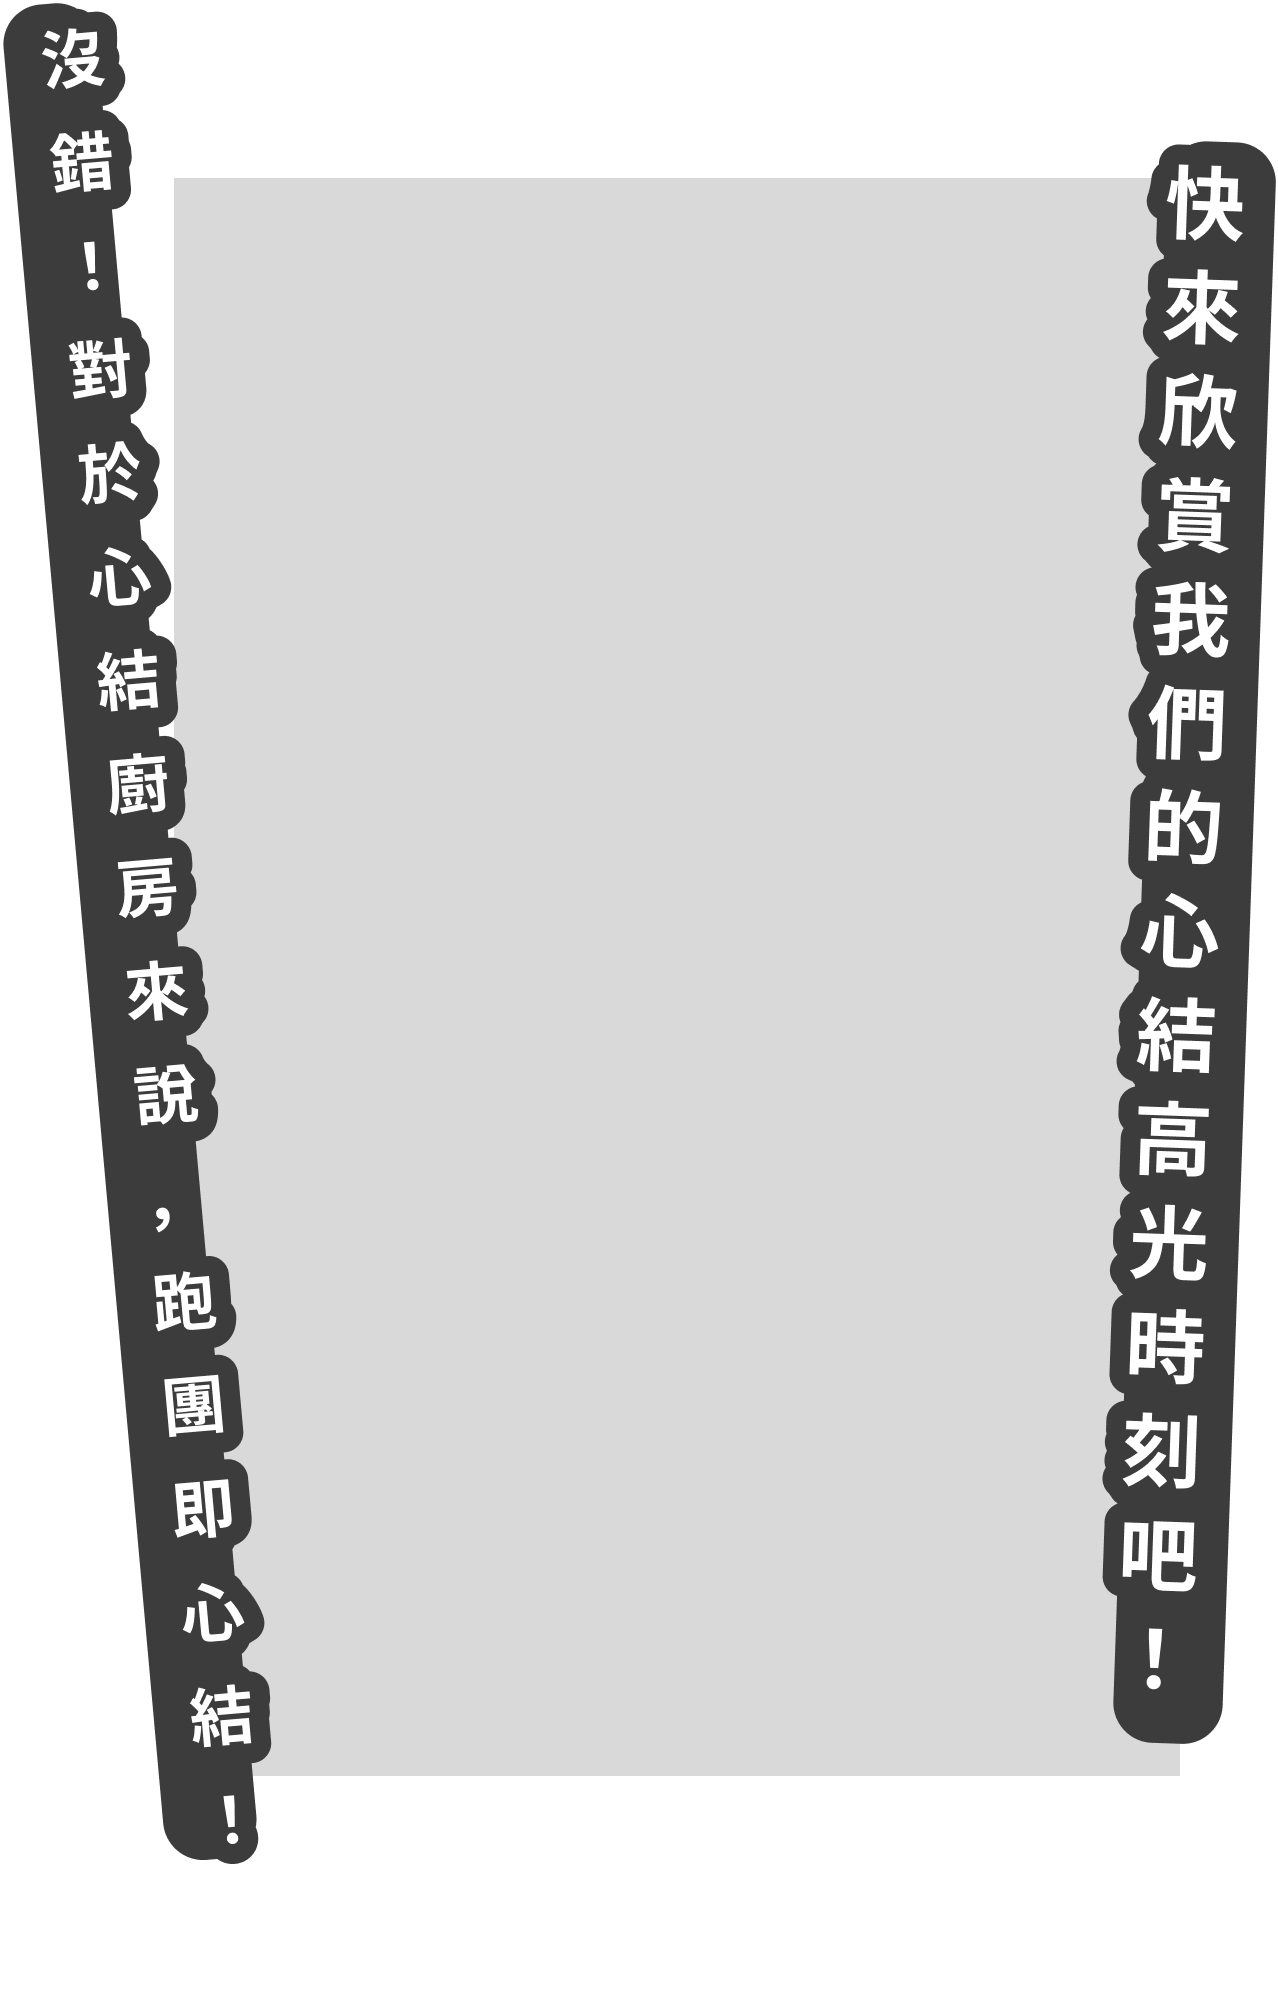
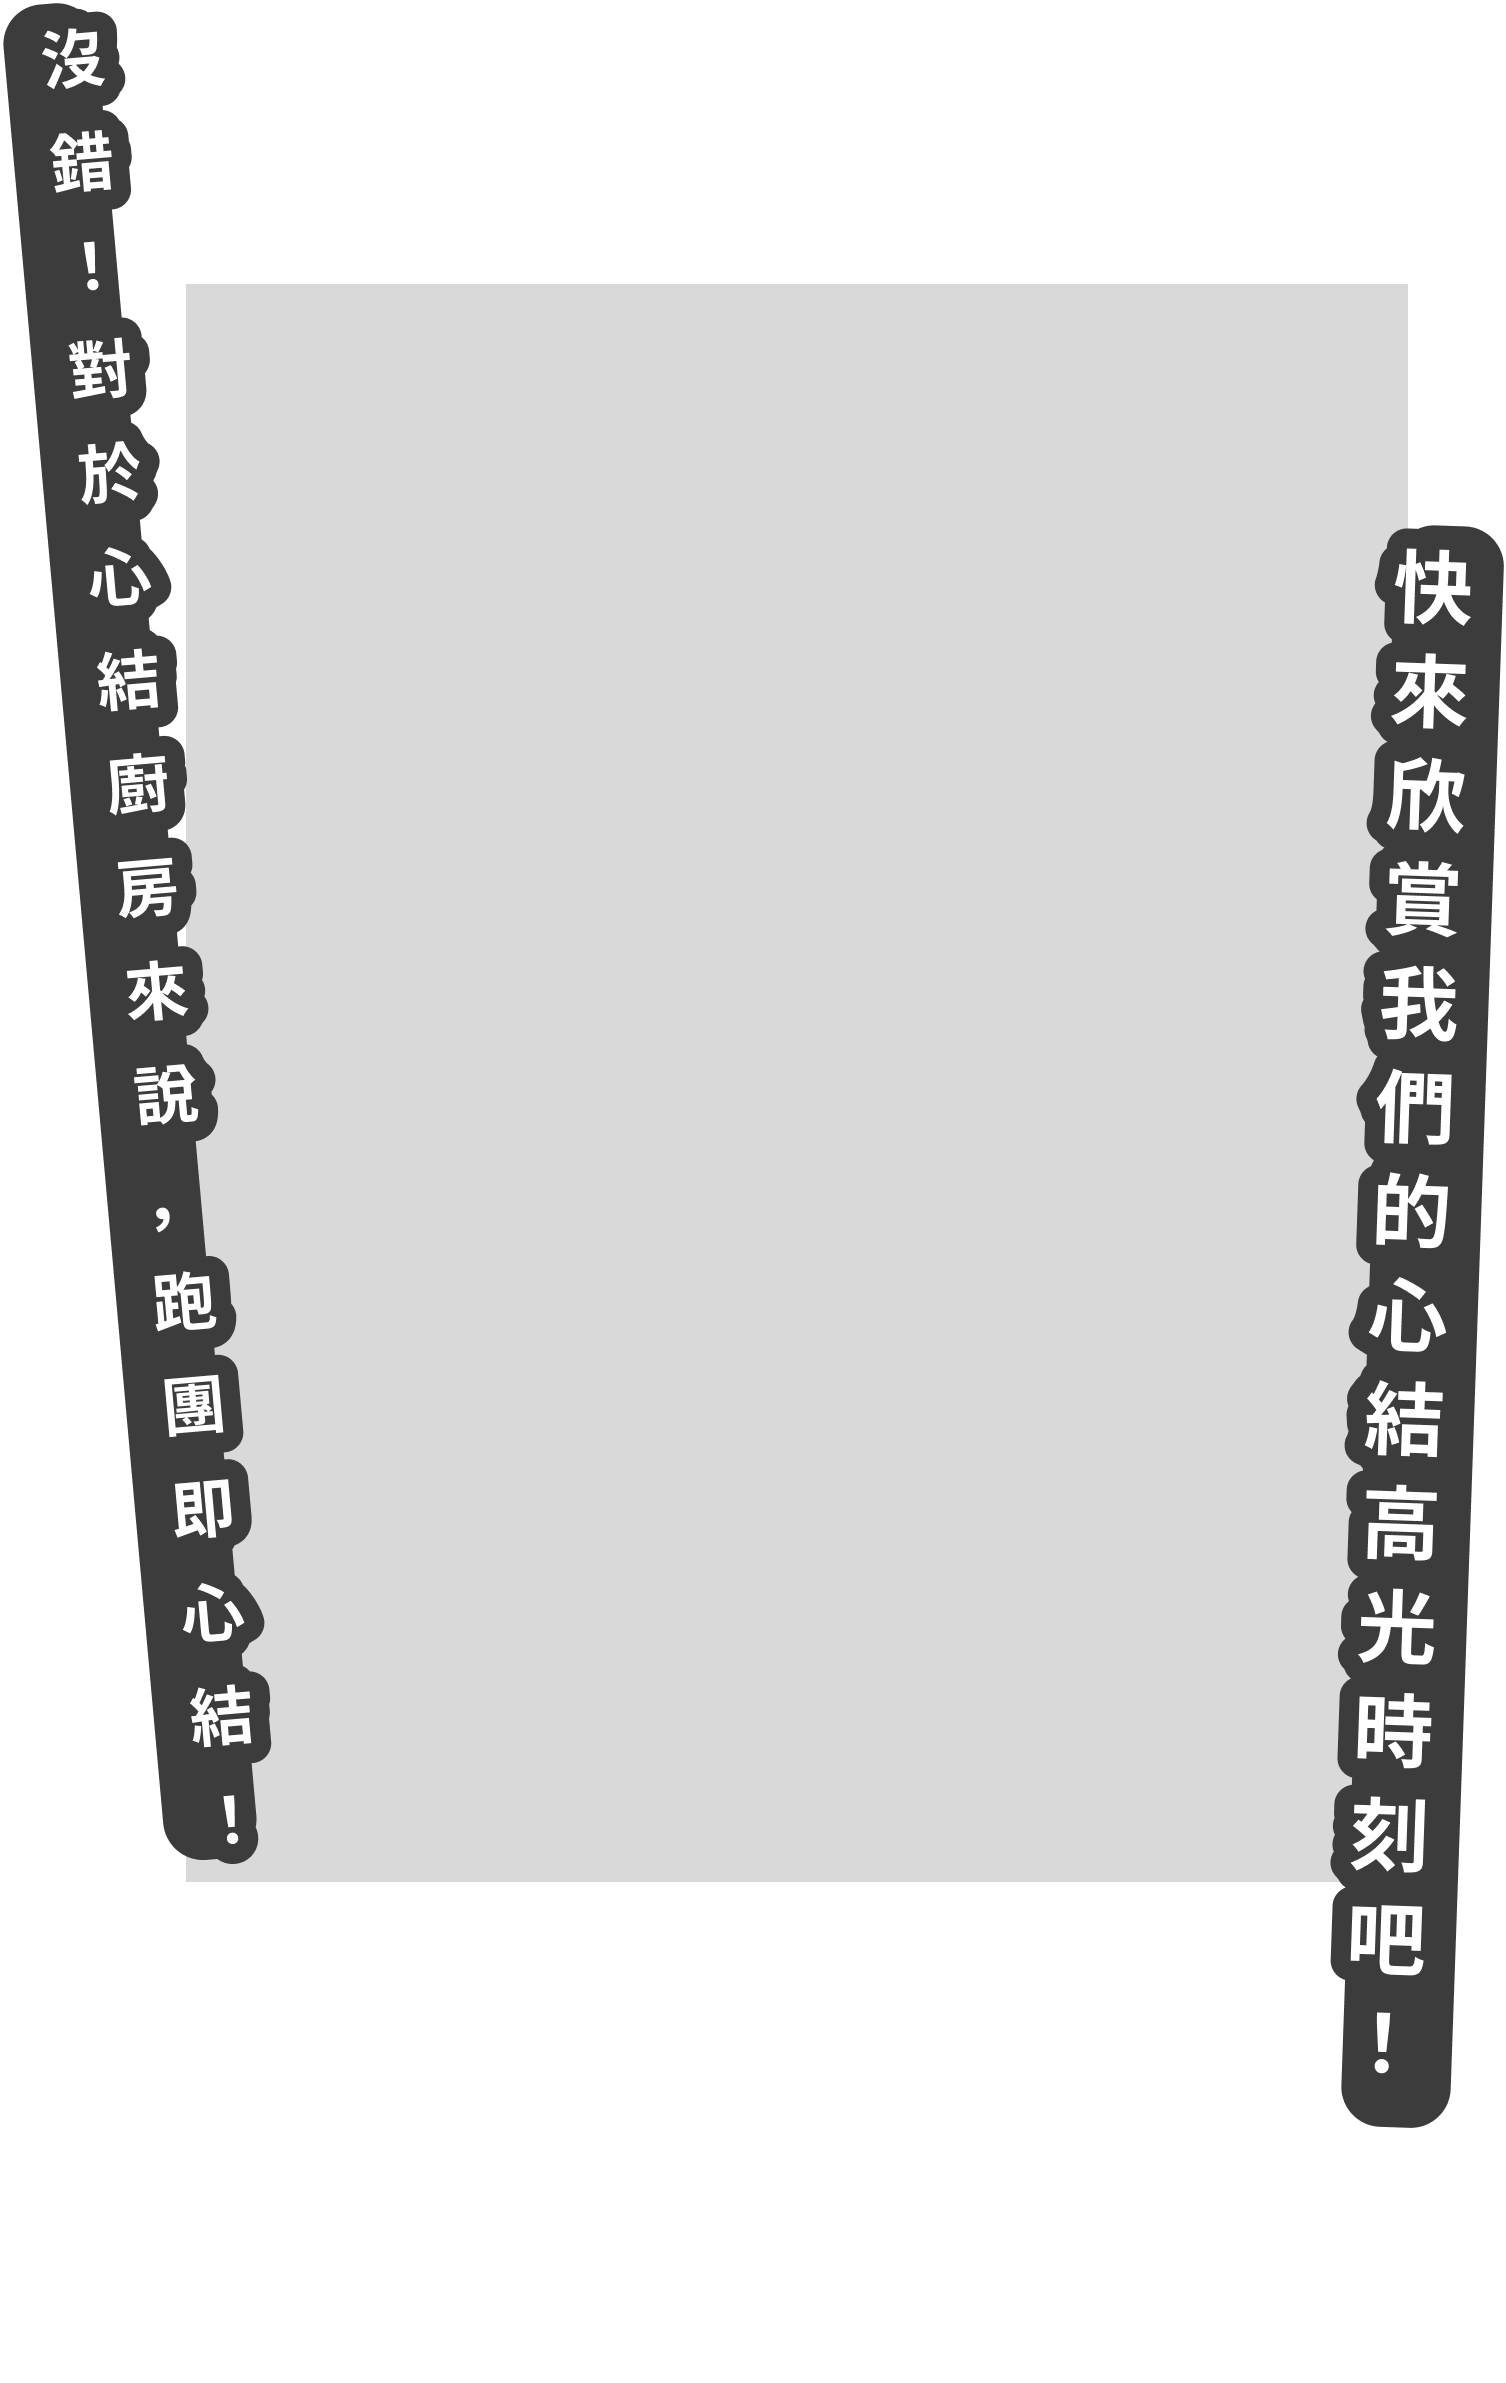
clip art height adjusted

Changed region(s): [[0.0305, 0.0, 1.0, 0.9305]]

diff --git a/styles.css b/styles.css
@@ -325,14 +325,14 @@
 
         .clipArtCnt {
             height: auto;
-            width: 20%;
+            width: 30%;
             float: left;
         }
 
         .charClipArt {
-            max-width: 100%;
-            height: 100%;
-            margin: 2% 5% 5% 1%;
+            max-width: 60%;
+            height: auto;
+            margin: 0 5% 5% 1%;
             align-self: center;
             justify-self: center;
             opacity: 0;
@@ -408,20 +408,20 @@
             left: 0;
             width: 100%;
             text-align: left;
-            padding: 10px;
+            padding: 0 10px 0 10px;
             margin-top: 10%;
             box-sizing: border-box;
         }
 
         .trpgDesWrap {
-            width: 35%;
+            width: 40%;
             height: auto;
             float: left;
             padding: 3%;
         }
 
         .trpgSlogan {
-            width: 70%;
+            width: 80%;
             margin-left: 5%;
             opacity: 0;
             animation: fadeInUp 0.5s;
@@ -430,12 +430,12 @@
 
         .trpgWrap {
             width: 50%;
-            height: auto;
+            height: 70vh;
             float: left;
         }
 
         .trpgName {
-            width: 50%;
+            width: 60%;
             height: auto;
             align-self: center;
             margin: 5% 0 0 5%;
@@ -446,7 +446,7 @@
         }
 
         .videoThumbnail {
-            width: 50%;
+            width: 60%;
             margin: 5% 5% 0 10%;
             opacity: 0;
             animation: fadeInLeft 1s;
@@ -455,7 +455,7 @@
         }
 
         .lastestEp {
-            width: 55%;
+            width: 65%;
             margin: 5% 5% 0 10%;
             position: relative;
             opacity: 0;
@@ -465,7 +465,7 @@
         }
 
         .playButton {
-            width: 15%;
+            width: 20%;
             margin: 5% 0 10% -10%;
             position: absolute;
             opacity: 0;
@@ -480,7 +480,7 @@
         }
         
         .otherPlaybacks {
-            width: 15%;
+            width: 20%;
             height: 70vh;
             background-color: #4c4c4c;
             margin-left: 5%;
